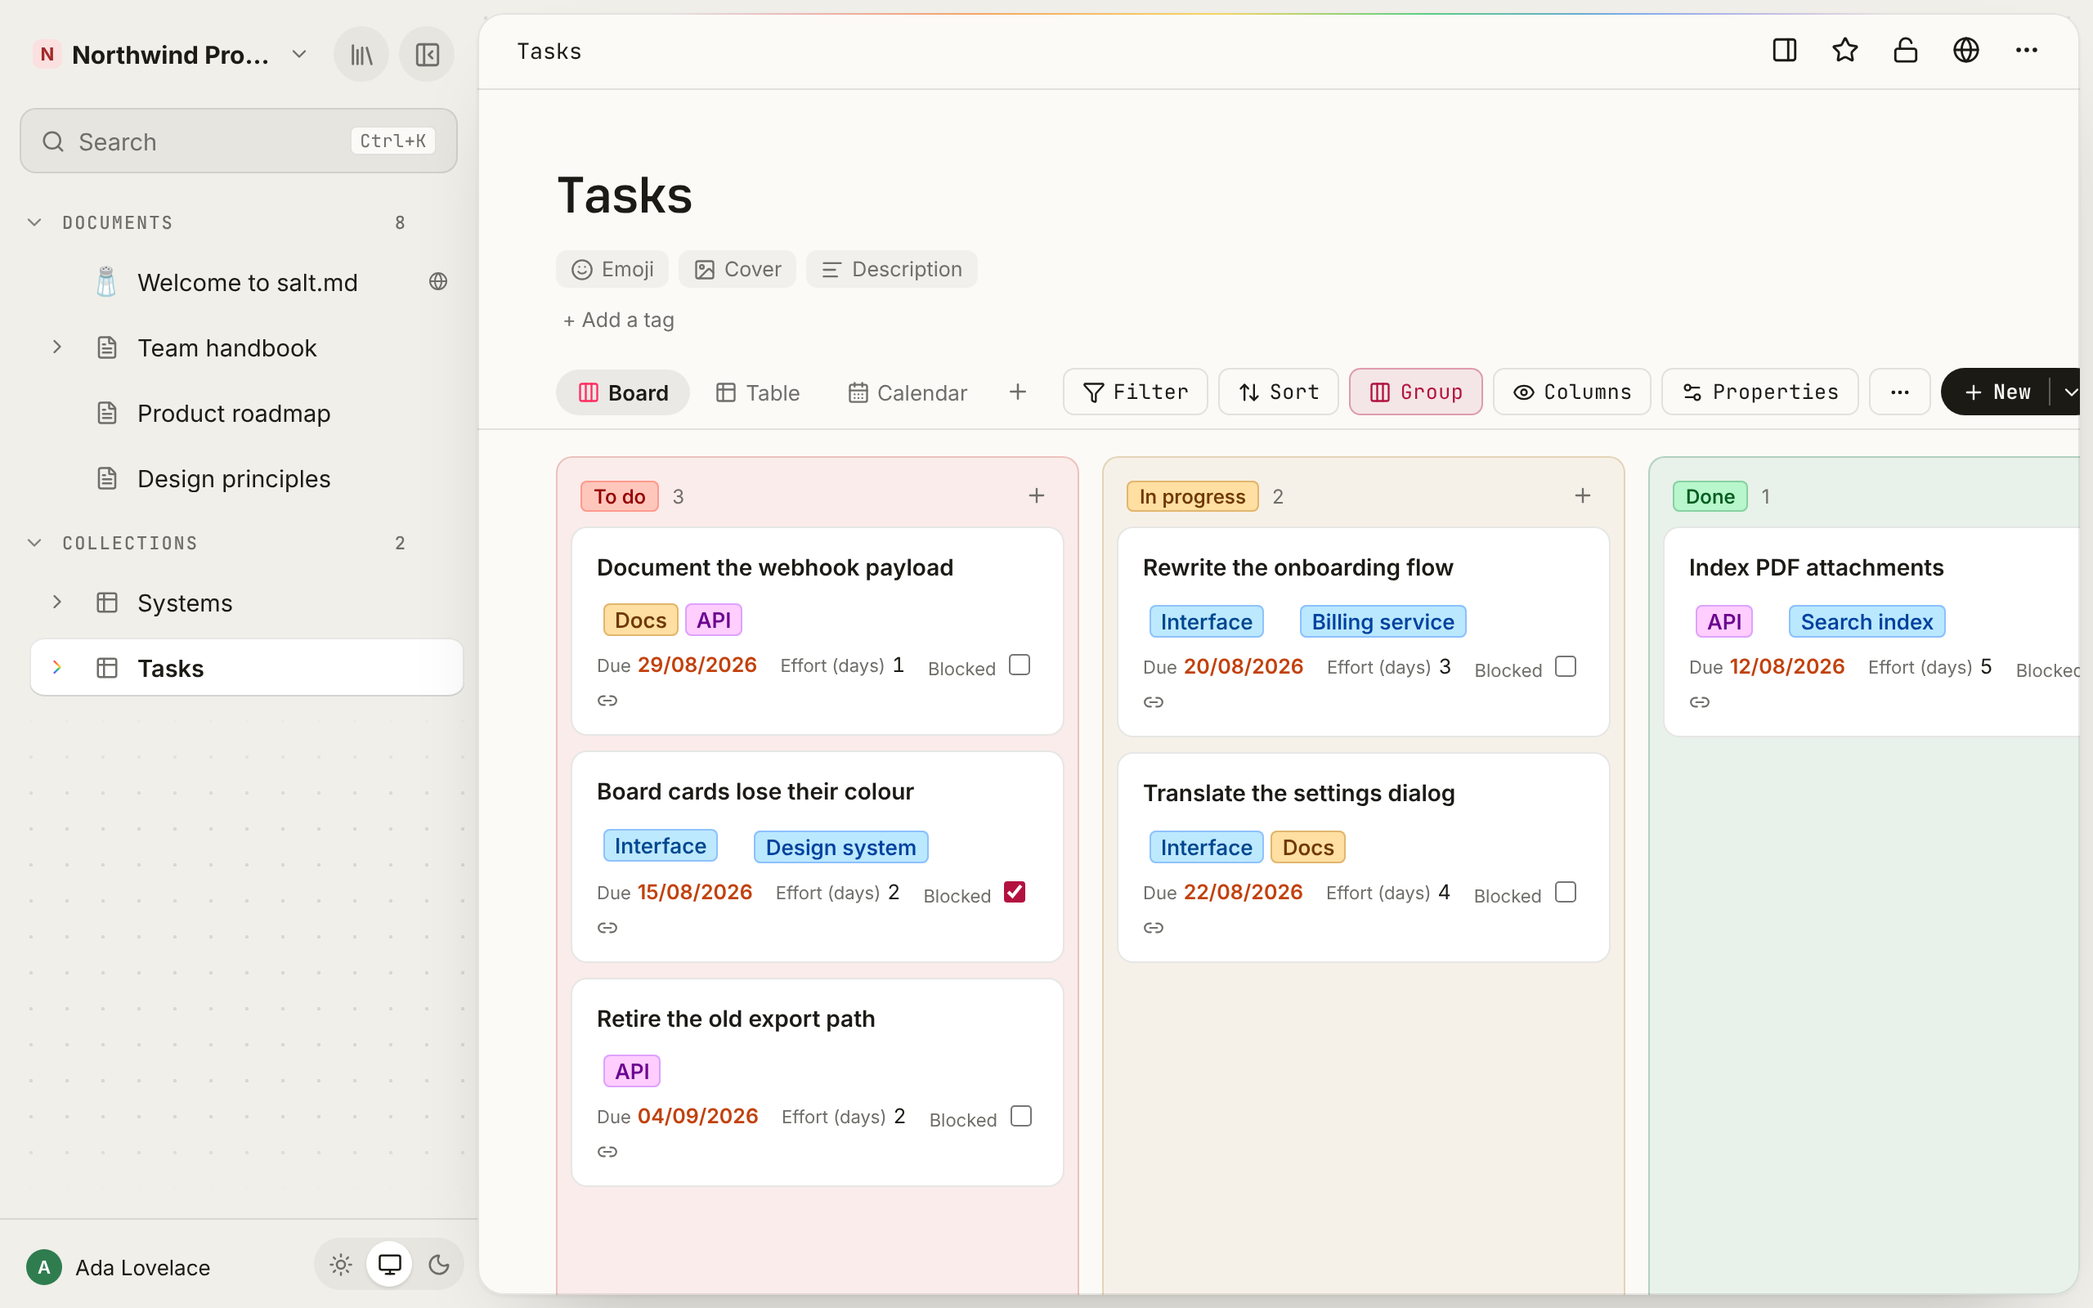
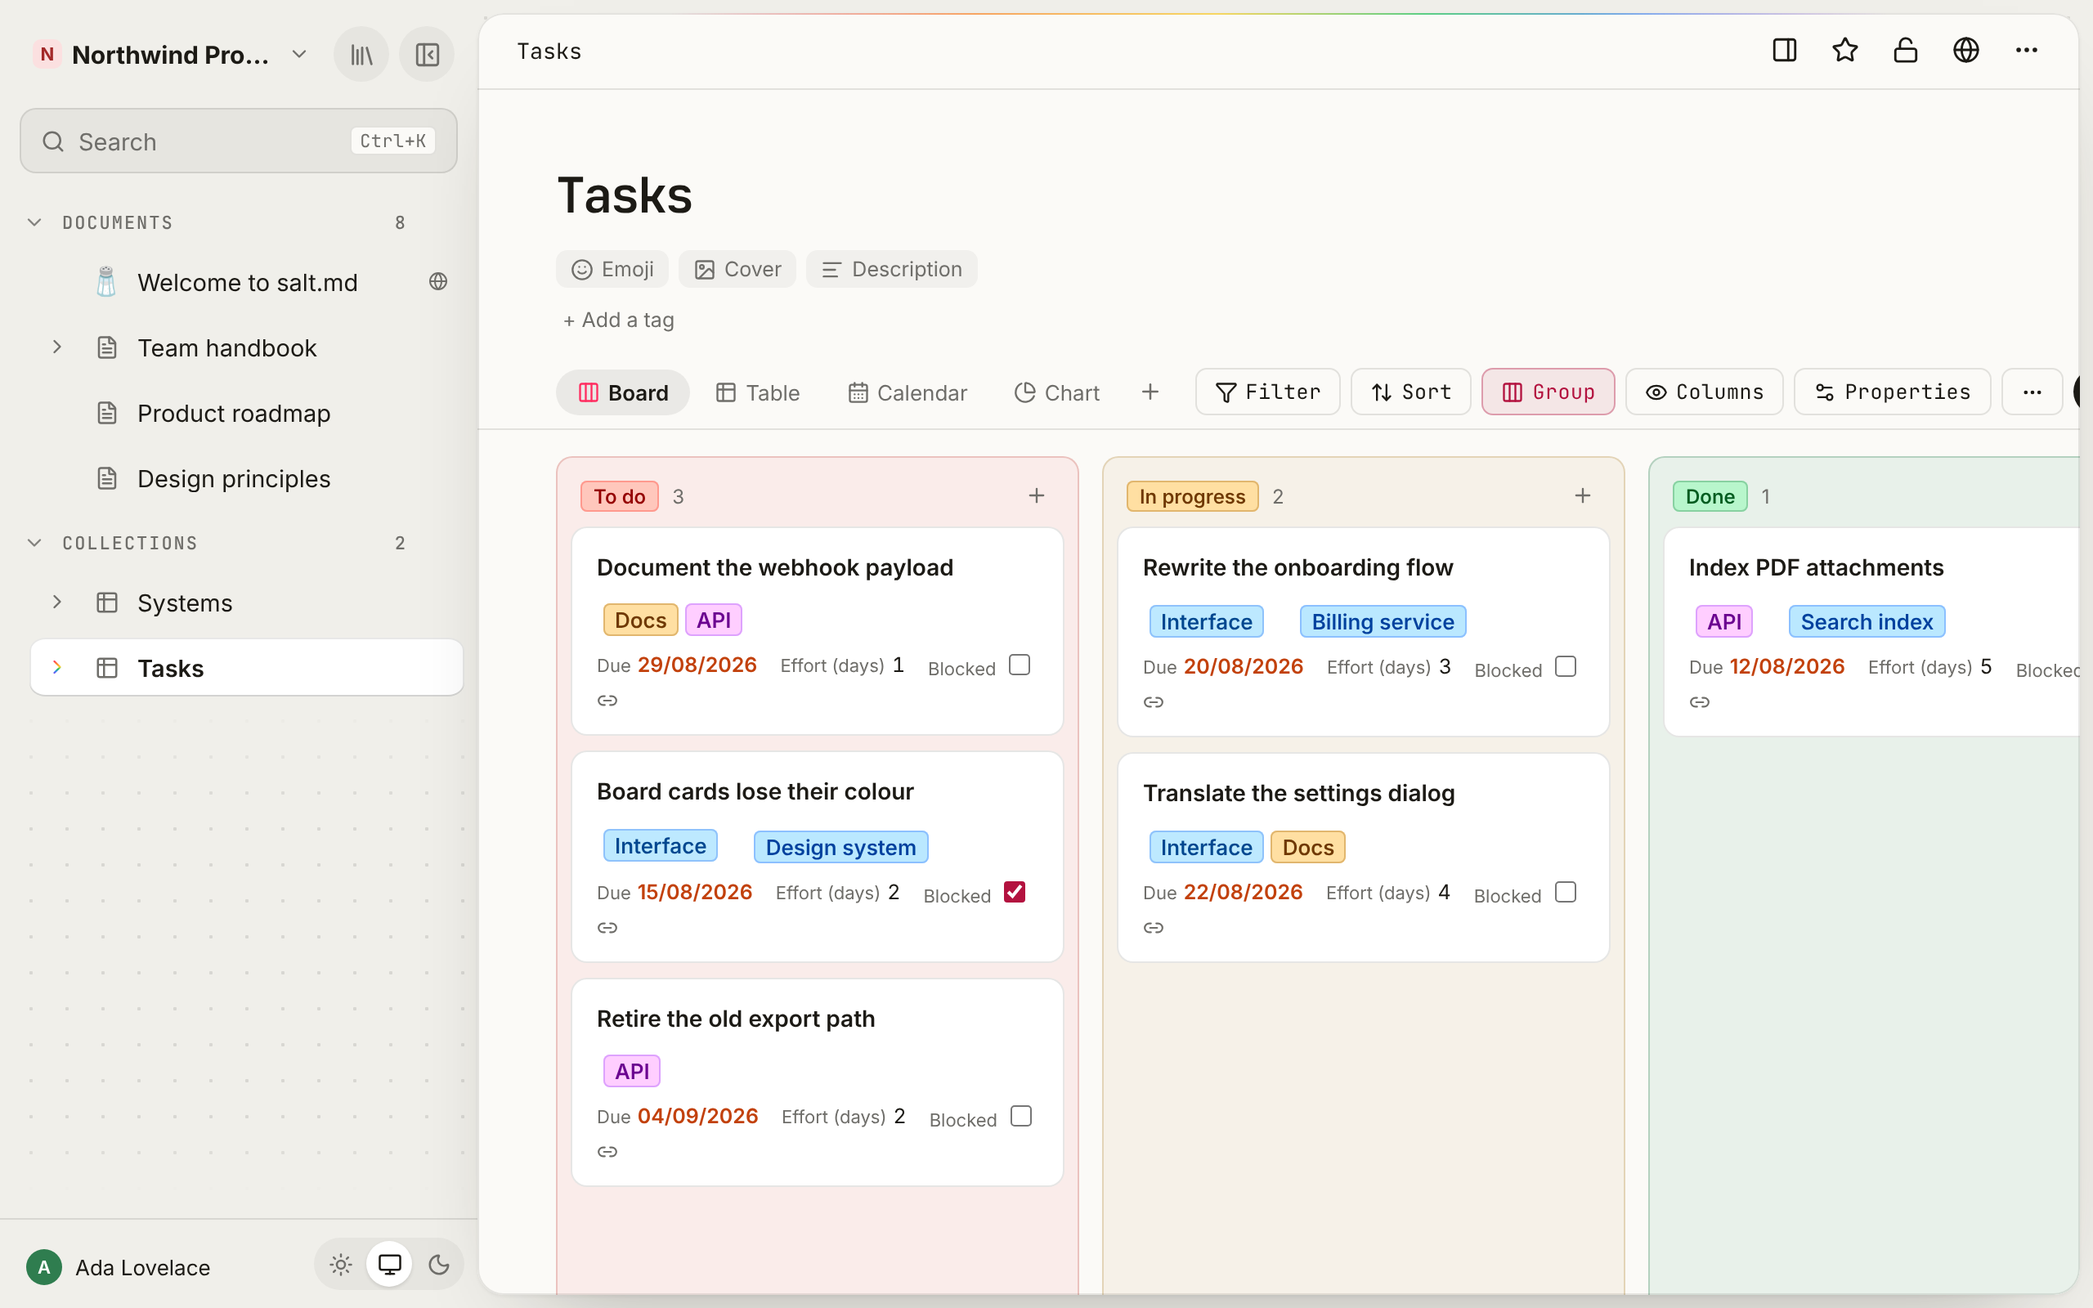
The chart view is documented, pictured and has its speed budgets
- wiki/views.md § chart: adding one, the settings, the order of groups,
  No value, Other, the rows behind a group, keyboard and screen readers,
  colours, documents; what is not built yet; and that a filter on a
  rollup, formula or backrelation does not work on a chart (#266).
  collections.md, forms.md, what-it-does.md: eight view types.
- The collection-chart screenshot (light and dark); the wiki seed gains
  a chart view, so the table, board and calendar shots are retaken with
  its tab.
- The chart settings move out of the toolbar into a row above the chart:
  in the toolbar four labelled dropdowns wrapped into a column and
  stretched every button beside them. The chart lines up with the tabs.
- Budgets for the new chart benchmarks in spec 002, from this PR's CI
  run 40704990150 (p95 x 1.5): sum per select 7 / 59 ms, count per month
  5 / 38 ms, rollup sum 139 / 1,445 ms at 1k / 10k rows.

Tasks T041, T043; T046 for collection-chart (chart-settings follows with
the builder).

Claude-Session: https://claude.ai/code/session_01GhcW371LLX9aNx2M9YVVgA

Changed region(s): [[0.5, 0.2812, 1.0, 0.3438]]

diff --git a/web/src/components/CollectionView.tsx b/web/src/components/CollectionView.tsx
@@ -963,11 +963,6 @@ export default function CollectionView({ collectionId, pages, tagColors, onNavig
             ))}
           </select>
         )}
-        {view.type === 'chart' && (
-          <Suspense fallback={null}>
-            <ChartSettings view={view} schema={schema} onChange={updateView} />
-          </Suspense>
-        )}
         {view.type !== 'form' && <FilterSortControls schema={schema} view={view} onChange={updateView} />}
         {/* What the collection IS — its columns, its properties, its views —
             is edited on its own page. An embed is a window onto the rows, and
@@ -1175,6 +1170,10 @@ export default function CollectionView({ collectionId, pages, tagColors, onNavig
         />
       ) : view.type === 'chart' ? (
         <Suspense fallback={<div className="db-empty">{t('Loading…')}</div>}>
+          {/* One row of its own above the chart: in the toolbar, four labelled
+              dropdowns wrapped into a column and stretched every button
+              beside them. */}
+          <ChartSettings view={view} schema={schema} onChange={updateView} />
           <ChartView
             collectionId={collectionId}
             view={view}

diff --git a/web/src/components/ChartSettings.css b/web/src/components/ChartSettings.css
@@ -1,7 +1,28 @@
-/* The chart's settings in the database toolbar (spec 004, US2). */
+/* The chart's settings, one row above the chart (spec 004, US2). Each label
+   sits beside its dropdown, so the row stays one line on a laptop and wraps
+   by whole settings on a phone. */
 .chart-settings {
   display: flex;
   flex-wrap: wrap;
-  align-items: flex-end;
-  gap: var(--space-100) var(--space-150);
+  align-items: center;
+  gap: var(--space-100) var(--space-300);
+  padding: var(--space-150) calc(2 * var(--space-600)) 0; /* the toolbar's 48px */
+}
+
+.chart-settings .ui-select {
+  flex-direction: row;
+  align-items: center;
+  gap: var(--space-100);
+}
+
+.chart-settings .ui-select-label {
+  font-size: var(--font-size-sm);
+}
+
+
+/* On a phone the toolbar keeps 14px at the sides; so does this. */
+@media (max-width: 768px) {
+  .chart-settings {
+    padding-inline: calc(var(--space-300) + var(--space-50));
+  }
 }

diff --git a/web/src/components/ChartView.css b/web/src/components/ChartView.css
@@ -4,7 +4,8 @@
 
 .chart {
   margin: 0;
-  padding: var(--space-200) 0;
+  /* In line with the view tabs and the page's own text column. */
+  padding: var(--space-200) calc(2 * var(--space-600)); /* the toolbar's 48px, so the edges line up */
   display: flex;
   flex-direction: column;
   gap: var(--space-150);
@@ -162,4 +163,12 @@
   color: var(--color-text-default);
   font-size: var(--font-size-sm);
   font-weight: 600;
+}
+
+
+/* On a phone the toolbar keeps 14px at the sides; so does this. */
+@media (max-width: 768px) {
+  .chart {
+    padding-inline: calc(var(--space-300) + var(--space-50));
+  }
 }

diff --git a/wiki/views.md b/wiki/views.md
@@ -7,7 +7,7 @@ views as you like and they are independent: filtering the board changes nothing
 about the table. What they never do is change the rows themselves. Every view of
 a collection reads the same rows; only the drawing differs.
 
-This page covers all seven view types, what each one needs before it can draw
+This page covers all eight view types, what each one needs before it can draw
 anything, the options each one offers, and how filters, sorting and visible
 columns work. The rows and the schema behind them are in
 [Collections](collections.md); the property types are in
@@ -18,7 +18,7 @@ stored on the collection, so a filter you add is the filter everyone sees in
 that view, on every device, the next time they open the collection. If you want
 your own cut of the data, add a view rather than change one.
 
-## The seven types
+## The eight types
 
 | Type | Draws | Needs |
 | --- | --- | --- |
@@ -29,6 +29,7 @@ your own cut of the data, add a view rather than change one.
 | `calendar` | a month grid, rows on their day | a date property |
 | `timeline` | bars across a day grid | a start date; an end date is optional |
 | `form` | fields that create a row when submitted | nothing |
+| `chart` | bars, a line, a donut or one number, counted on the server | a property to group by, except for a number chart |
 
 A collection that has just been created carries two views: **Board**, grouped by
 the Status property, and **Table**, in that order, so the board is what opens
@@ -289,6 +290,78 @@ not valid or has been switched off.*
 Hiding a property under **Columns** hides it on the public form too. More on the
 published side in [Sharing](sharing.md#public-forms).
 
+### `chart`
+
+A chart answers "how many" and "how much" at a glance: how many tasks per
+status, how many hours per person, how many sign-ups per week. It does not load
+the rows. The server counts them, over exactly the rows the view's filters let
+through and that you may see, and sends only the numbers; so a chart of fifty
+thousand rows costs about as much as a chart of fifty.
+
+![A chart view: the sum of the effort per status, as a donut. The buttons under it are the groups, for the keyboard and for screen readers.](img/collection-chart.png)
+
+**Adding one.** `+` → **Chart**. It appears drawn at once: bars, grouped by the
+collection's first select property (or the first property that can group at
+all), counting rows. A collection with nothing to group by starts as a number
+chart.
+
+**The settings** sit in the bar above it:
+
+| Setting | Choices |
+| --- | --- |
+| **Chart** | **Vertical bars**, **Horizontal bars**, **Line**, **Donut**, **Number** (one big value) |
+| **What to show** | the property each bar, point or slice stands for: a select, multi-select, person, checkbox, date or relation |
+| **Period** | for a date: **Day**, **Week**, **Month** (the default) or **Year** |
+| **Value** | **Count of rows**, or the **Sum**, **Average**, **Minimum** or **Maximum** of a number, formula or rollup property, chosen under **Of** |
+
+The order of the groups is the property's own: a select's options as they are
+listed, checked before unchecked, dates in time order; anything else largest
+first. Rows without a value make a group of their own, **No value**, drawn last.
+A row with several values (tags, several people, several related rows) counts
+once under each of them, and the chart says so under it. A sum or an average
+leaves out rows without a number, and says how many. Between the first and the
+last period of a date, empty periods are drawn at zero, so a line does not
+skip them; more than 400 periods are refused with a request for a coarser one.
+
+At most twelve groups are drawn. The rest are added up into **Other**; **No
+value** is never folded into it. **Show as table** lists every group with its
+value and its number of rows, whatever is drawn.
+
+**The rows behind a group.** Click a bar, a slice or a point, or one of the
+group buttons under the chart, and the rows behind it are listed underneath:
+the same rows a filter on that value would show in a table. A click on a row
+opens it the way the view's **Open pages in** says. **Close** puts the list
+away. At most 200 rows are listed; the count above them is the full one.
+
+**Reading it without a mouse or without the picture.** Under the chart is one
+button per group, with its name and its value: Tab reaches them, the arrow keys
+move from one to the next (they stop at the ends rather than wrap around), and
+Enter lists the rows. Moving the focus also lights up the matching bar or
+slice. The picture itself is hidden from screen readers; they read the
+caption, the summary under it (*4 groups · largest: Done, 11*) and the buttons.
+A donut's total is real text in its middle.
+
+**Colours** come from the design tokens and are readable in light and dark: a
+select's own option colours where it has them, otherwise a set of twelve that
+all reach a 3:1 contrast with the page. **No value** and **Other** are grey.
+
+**In a document** a chart keeps the document's own filters, like any embedded
+view (see [Collections inside documents](collections.md#collections-inside-documents)).
+
+**A filter on a rollup, formula or backrelation does not work on a chart.**
+Those values are worked out after the database has filtered (see
+[What a view leaves out without saying so](#what-a-view-leaves-out-without-saying-so)),
+and a table then corrects the answer in the browser; a chart has no rows in the
+browser to correct. So on a chart such a filter either matches nothing or lets
+every row through. Filter on a stored property instead.
+
+**Not built yet:** the style settings (palette, height, legend, value labels,
+caption), sorting and hiding single groups from the chart's own settings,
+inserting a chart straight from the `/` menu of a document, and saving a chart
+as a picture. They are the next part of the same feature. Agents can already
+set every one of those over MCP; see `set_view` in
+[MCP tools](mcp-tools.md).
+
 ## The settings bar
 
 The view tabs sit on the left of the collection's toolbar; everything that
@@ -452,7 +525,7 @@ The two are worth telling apart before you go looking for lost data.
 
 1. **Add a view** with the `+` at the end of the tabs (tooltip *Add view*). The
    menu offers **Table**, **Board**, **Gallery**, **Calendar**, **Timeline**,
-   **List**, **Form**. The new view is named after its type, is appended at the
+   **List**, **Form**, **Chart**. The new view is named after its type, is appended at the
    end, and opens straight away.
 2. **Rename** by double-clicking the tab, or through `⋯` → **Rename view**. A
    right-click on any tab offers renaming, moving and removing for that view,

diff --git a/specs/002-storage-engine/research.md b/specs/002-storage-engine/research.md
@@ -86,11 +86,19 @@ Measured on the CI runner (`ubuntu-latest`, 4 cores, Go 1.27.3), `-bench Storage
 | Grouped count (chart) | 1k rows | — | 2.1 ms (#85) | 4 ms |
 | Grouped count (chart) | 10k rows | — | 19.5 ms (#85) | 30 ms |
 | Grouped count (chart) | 100k rows | 250 ms | not run in CI; 139 ms on a 4-core dev machine (T020) | 250 ms, provisional |
+| Chart: sum of a number per select (spec 004) | 1k rows | — | 4.06 ms (#264) | 7 ms |
+| Chart: sum of a number per select (spec 004) | 10k rows | — | 38.8 ms (#264) | 59 ms |
+| Chart: count per month, gaps filled (spec 004) | 1k rows | — | 2.68 ms (#264) | 5 ms |
+| Chart: count per month, gaps filled (spec 004) | 10k rows | — | 25.2 ms (#264) | 38 ms |
+| Chart: sum of a rollup per select (spec 004) | 1k rows | — | 92.2 ms (#264) | 139 ms |
+| Chart: sum of a rollup per select (spec 004) | 10k rows | — | 963 ms (#264) | 1,445 ms |
 | Property write during a 5-agent burst | 10k rows | 20 ms per write | 5.3 ms | 8 ms per write |
 
 - **One budget is still looser than the guess.** `query_rows` at 10k rows started at 113 ms and is now 50 ms, which meets the guess (#79, PR #85). Search at 20k pages went from 301 to 185 ms; the 50 ms target stays with #78, where the measurement says why a faster join cannot reach it (ranking 24k hits alone costs most of it).
 - **The driver bump (#80) lowers most of these** (−11% to −44% p95 on a 4-core dev machine). Measured before it, these budgets have that much headroom until the next re-baseline.
 - **The 100k sizes stay provisional:** `BENCH_LARGE=1` takes too long for every PR. The grouped count also runs at 1k and 10k (`StorageGroupedCount`), so CI tracks its trend; those two sizes got their budgets from the #85 run.
+
+- **Chart rows (#264)** were measured on the same runner in PR #264, run 40704990150 (`-count=6`, the p95 benchstat reports). The grouped count beside them did not move against its base (19.41 → 19.35 ms p95 at 10k). A rollup sum is slow by nature: rollups exist only in Go (`computeDerived`), so every row is read and computed (spec 004, research R3). At 10k rows it takes about a second; at 100k it would reach the 5-second limit and answer with the time-limit sentence, which is the documented behaviour, not a hang.
 
 A budget may only be raised in a PR that says why.
 

diff --git a/wiki/collections.md b/wiki/collections.md
@@ -189,7 +189,8 @@ right, the settings for the view you are on.
 | Control | What it does |
 | --- | --- |
 | View tabs | Switch views. **Double-click** a tab to rename it. |
-| `+` (Add view) | Menu: **Table**, **Board**, **Gallery**, **Calendar**, **Timeline**, **List**, **Form**. The new view is named after its type and opens straight away. |
+| `+` (Add view) | Menu: **Table**, **Board**, **Gallery**, **Calendar**, **Timeline**, **List**, **Form**, **Chart**. The new view is named after its type and opens straight away. |
+| **Chart**, **What to show**, **Period**, **Value**, **Of** | Chart only: the kind of chart, what it groups by, a date's period, and what each group shows. See [Views](views.md#chart). |
 | **Start:** / **End:** | Timeline only: which date property draws the bars. Leaving End empty gives one-day bars. |
 | Sub-item picker | Table only, and only when a relation points back at this same collection. Choosing it draws the table as a tree; **No sub-items** turns it off. |
 | **Filter** | Conditions on properties, ANDed. The button shows the count. |
@@ -309,6 +310,14 @@ columns: one column per customer, per system, per whatever the rows point at.
 If the grouping property is missing, the board says
 *This board needs a Select property to group by. Open ⚙ Properties to add one.*
 The calendar and the timeline say the same about a date property.
+
+### What the chart adds
+
+A chart does not list rows; it counts them, on the server, over exactly the
+rows its filters let through. Each bar, slice or point is one value of the
+property it groups by, and a click on it lists the rows behind it. The settings,
+the order of the groups and how it reads without a mouse are in
+[Views](views.md#chart).
 
 ### What the form adds
 

diff --git a/specs/004-chart-view/tasks.md b/specs/004-chart-view/tasks.md
@@ -125,9 +125,9 @@ description: "Tasks for chart views of a database, with the chart builder"
 
 ## Phase 8: Polish and cross-cutting
 
-- [ ] T041 [perf] `BenchmarkStorageAggregate` in `server/storage_bench_test.go` (sum per select, count per month, formula sum; 1k and 10k, `BENCH_LARGE=1` for 100k); budgets from the CI run × 1.5 into `specs/002-storage-engine/research.md`; `EXPLAIN QUERY PLAN` in the pull request
+- [x] T041 [perf] `BenchmarkStorageAggregate` in `server/storage_bench_test.go` (sum per select, count per month, formula sum; 1k and 10k, `BENCH_LARGE=1` for 100k); budgets from the CI run × 1.5 into `specs/002-storage-engine/research.md`; `EXPLAIN QUERY PLAN` in the pull request
 - [x] T042 [perf] Bundle: main chunk growth measured against the plan's budgets; Chart.js only in the lazy chunk (`budgets.json` `bundleGzip` unchanged or lowered)
-- [ ] T043 [P] [wiki] `wiki/collections.md` § "What the chart adds" and the eight view types; `docs/what-it-does.md` "eight ways"; `check-wiki.mjs` learns `chart`
+- [x] T043 [P] [wiki] `wiki/collections.md` § "What the chart adds" and the eight view types; `docs/what-it-does.md` "eight ways"; `check-wiki.mjs` learns `chart`
 - [x] T044 [P] [wiki] `wiki/mcp-tools.md` §§ query_rows, set_view, get_collection, embed_database; `wiki/api.md` the aggregate route
 - [ ] T045 [P] [wiki] The wiki page that lists `/` entries gains the five chart entries; `wiki/collections.md` describes the settings panel, palettes and Save chart as
 - [ ] T046 [wiki] Screenshots `collection-chart` and `chart-settings` (light and dark) in `wiki/screenshots.json` and `web/scripts/shoot-wiki.mjs`; stale shots retaken

diff --git a/wiki/forms.md b/wiki/forms.md
@@ -1,6 +1,6 @@
 # Forms
 
-A **form** is one of the seven view types a collection can have. It draws the
+A **form** is one of the eight view types a collection can have. It draws the
 collection's properties as fields to fill in, and submitting it creates a row.
 Published as a link, it lets somebody with no account create a row in one
 collection of your instance: a contact form, a leave request, a bug report, a

diff --git a/docs/what-it-does.md b/docs/what-it-does.md
@@ -224,7 +224,7 @@ handing a third party the keys.
 
 ### Trello
 
-Trello is a board. salt.md has boards, but a board here is one of seven views on
+Trello is a board. salt.md has boards, but a board here is one of eight views on
 a database, and each card is a full document rather than a card with a
 description field.
 
